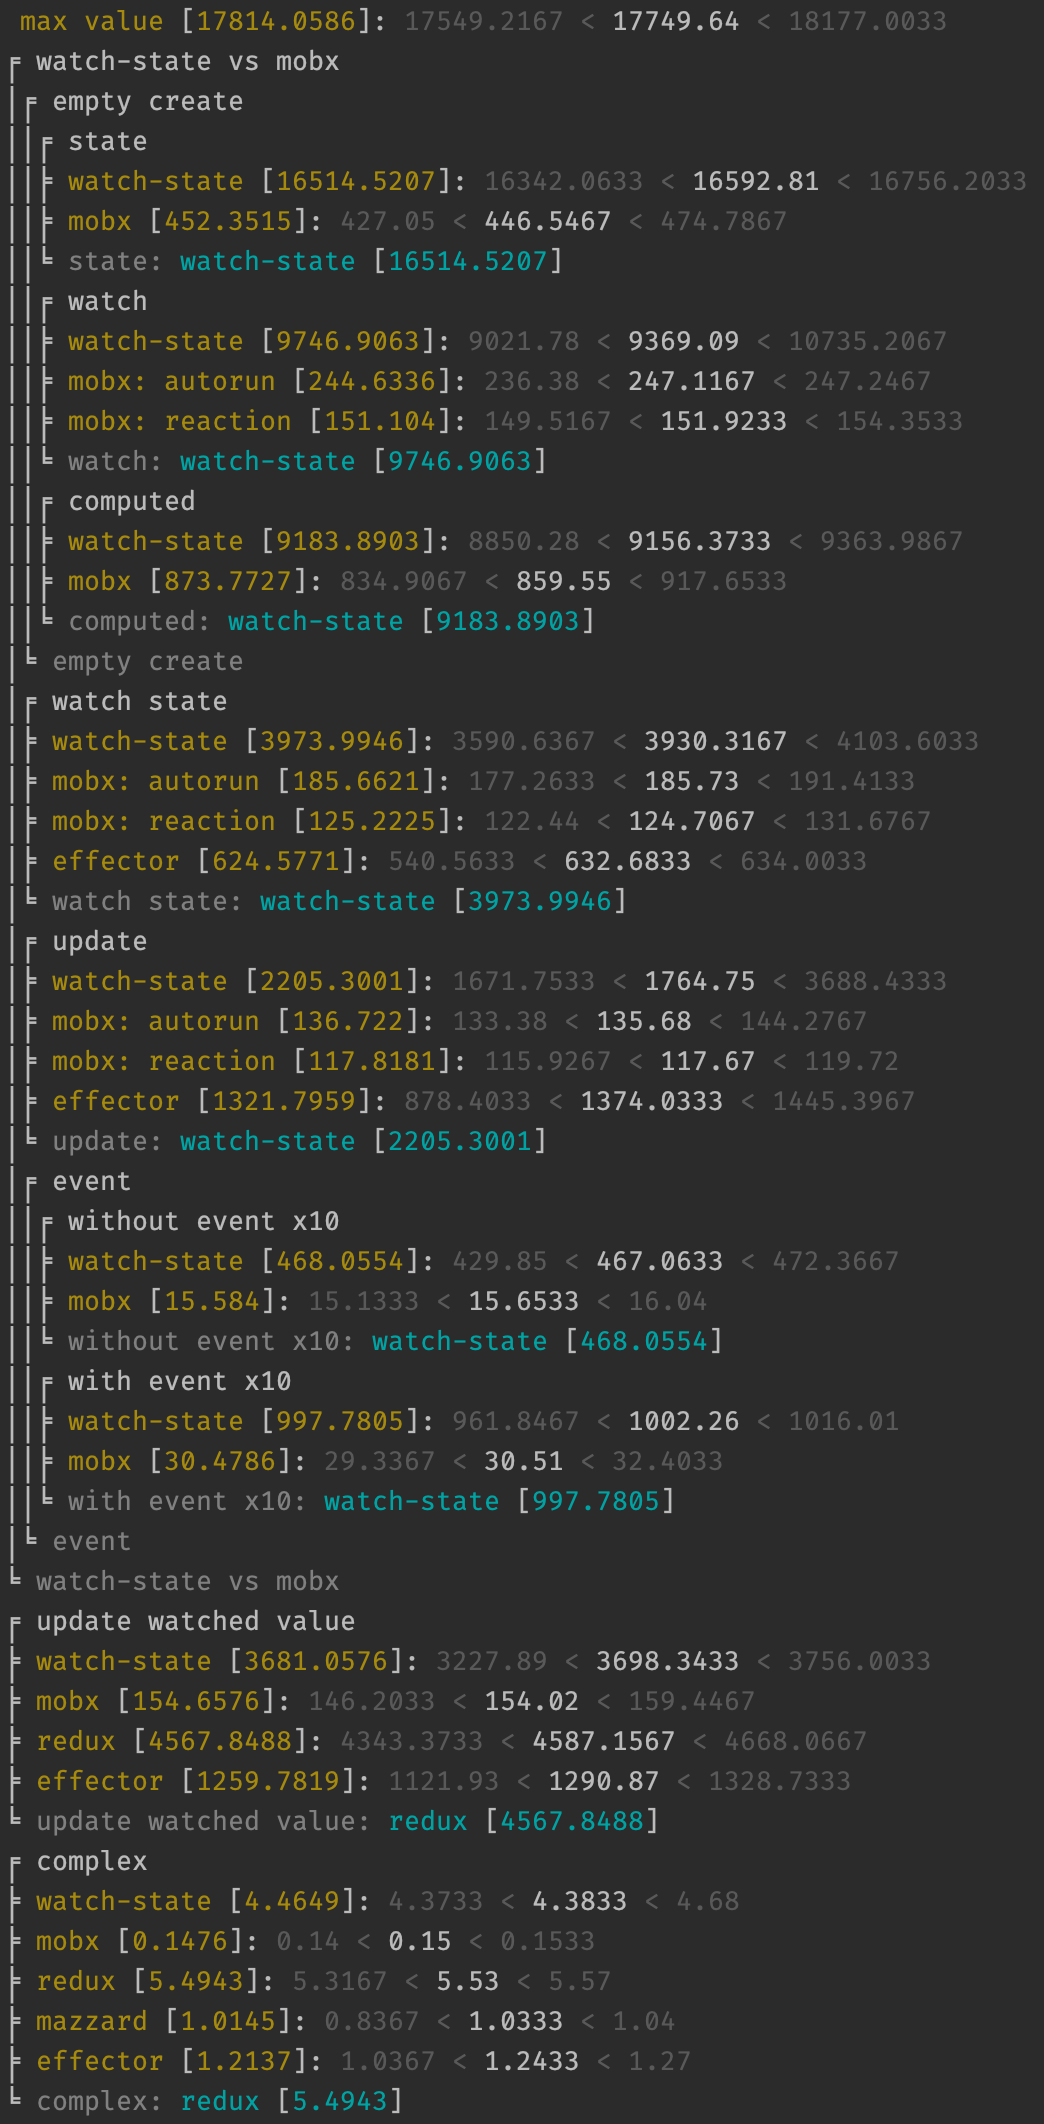
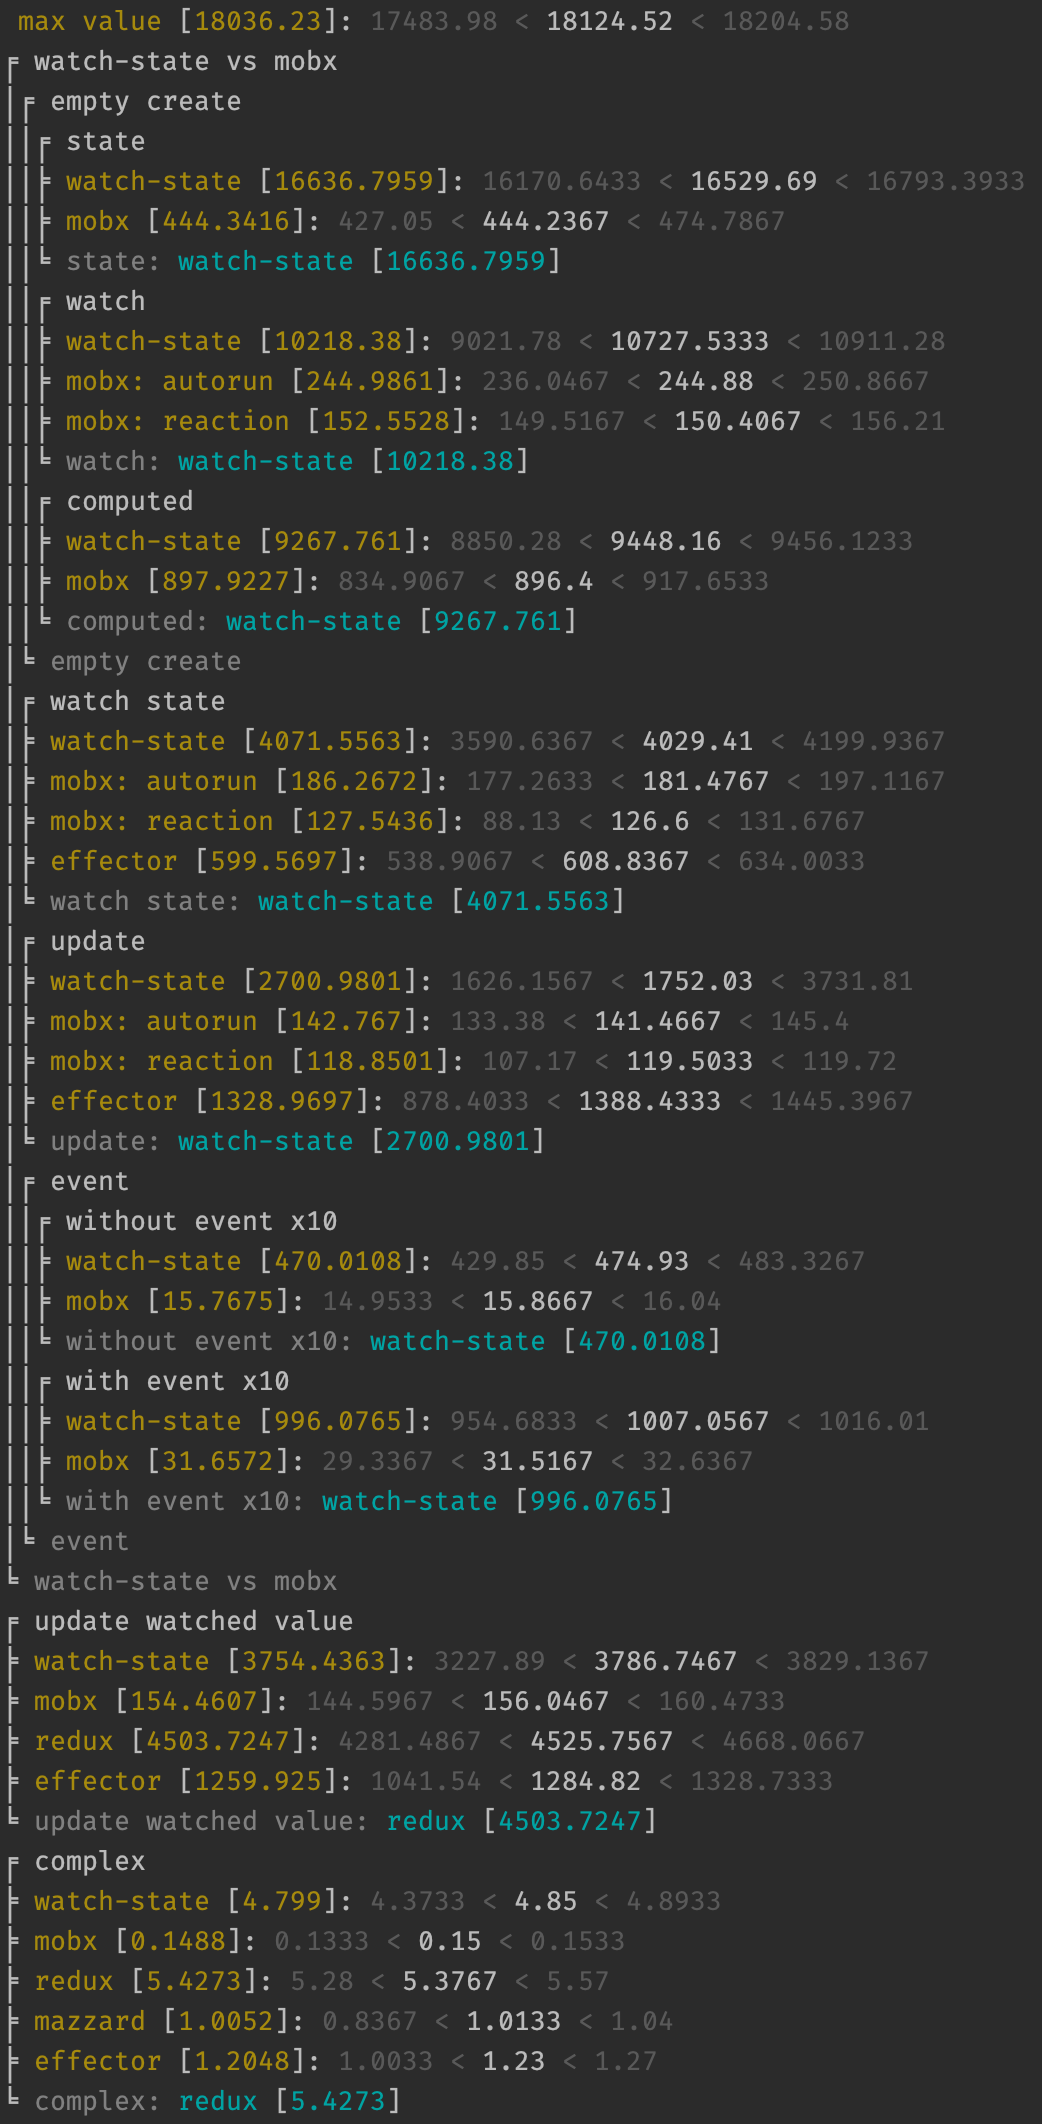
improved performance and bundle size

diff --git a/src/Watch/Watch.ts b/src/Watch/Watch.ts
@@ -16,7 +16,6 @@ export class Watch {
   }
   destructors: Destructor[]
   private ran: boolean = false
-  updating: boolean // TODO: check if we need to use it
 
   constructor (private readonly watcher: Watcher, freeParent?: boolean, freeUpdate?: boolean) {
     if (!freeParent && Watch.activeWatcher) {
@@ -33,21 +32,16 @@ export class Watch {
     return this.watcher(ran)
   }
 
-  update (): this {
-    if (this.updating) {
-      return this
-    }
-    this.updating = true
+  update () {
     this.destroy()
     const prevWatcher = activeWatcher
     activeWatcher = this
     this.run()
     activeWatcher = prevWatcher
-    this.updating = false
-    return this
+    return
   }
 
-  destroy (): this {
+  destroy () {
     const {destructors} = this
 
     if (destructors) {
@@ -55,7 +49,7 @@ export class Watch {
       destructors.forEach(e => e())
     }
 
-    return this
+    return
   }
 
   onDestroy (callback: Destructor): this {

diff --git a/src/Cache/Cache.ts b/src/Cache/Cache.ts
@@ -9,7 +9,7 @@ export class Cache <V = any> extends Watch {
     super(watcher, freeParent, !fireImmediately)
   }
 
-  destroy (): this {
+  destroy () {
     this.updated = false
     return super.destroy()
   }
